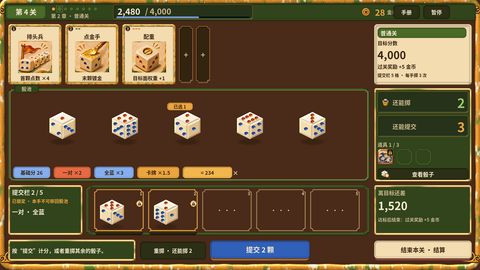
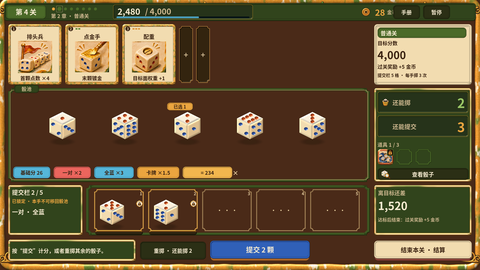
art(v1.1 W20 sancai): default dice pip colours (red EC655D, blue 55B6D9)
The palette's red and blue also colour the 3D dice pips (DiceTable reads
UiKit.Red and UiKit.Blue). Pip colour is the game's main functional cue,
so per CP3-1 every style keeps the default pair, as Swiss does
(coordinator decision, 2026-11-17). Rebuilt: theme.json, preview and
contact sheet change; the 49 sprites do not. Sancai tests 24/24, strict
audit AUDIT_OK. README records the decision.

Changed region(s): [[0.0, 0.5926, 0.2812, 0.6815], [0.25, 0.0593, 0.4062, 0.0889]]

diff --git a/tools/art_v11/sancai/build_sancai.py b/tools/art_v11/sancai/build_sancai.py
@@ -49,8 +49,10 @@ PALETTE = {
     "muted": "CDB78F",        # pale clay: secondary text on dark glaze
     "gold": "EBA53F",         # amber glaze: prices, coins, highlights
     "teal": "9BC766",         # light copper green: done, positive
-    "red": "E66A44",          # iron-red glaze, light enough for text on the felt
-    "blue": "84AEEE",         # thin cobalt glaze, light enough for text on the felt
+    # red and blue also colour the 3D dice pips (DiceTable reads UiKit.Red / UiKit.Blue). Pip colour is the game's main
+    # functional cue, so every style keeps the default pair (coordinator, 2026-11-17, CP3-1; THEME_SPEC section 2).
+    "red": "EC655D",
+    "blue": "55B6D9",
     "violet": "B58BC9",       # manganese aubergine glaze, thinned: enchantments
     "danger": "A0301E",       # deep iron red: errors, boss warnings
     "shadow": "140B05",

diff --git a/tools/art_v11/sancai/README.md b/tools/art_v11/sancai/README.md
@@ -62,7 +62,7 @@ WCAG 2 相对亮度（sRGB 线性化）。生成器 `palette_report()` 打印下
 | boss / danger | A93F1C / A0301E | 铁红；danger 更深 | textColor 5.25 / 6.10；danger 在 paper 上 5.33 |
 | gold / reward | EBA53F / F2B64E | 琥珀釉；reward 更亮 | ink/gold 7.05；gold 在 panel 上 5.06（保留金色数字） |
 | teal | 9BC766 | 浅铜绿（完成、正面） | panel 上 5.45 |
-| red / blue | E66A44 / 84AEEE | 铁红与薄钴蓝，亮度接近默认（EC655D / 55B6D9），桌面上的文字与 3D 骰点照样读得出；见“需要决定” | ink 在 red 上 4.59（代码会提亮一步，和默认红一样） |
+| red / blue | EC655D / 55B6D9（与默认相同） | 这两项同时决定 3D 骰点的颜色。骰点颜色是最重要的功能提示，协调者决定各风格都用默认这一对（2026-11-17，CP3-1；THEME_SPEC §2）。原提案为铁红 E66A44 / 薄钴蓝 84AEEE | 与默认相同 |
 | violet | B58BC9 | 锰紫釉（概念图“商店服务”） | — |
 | ghost | D2AC74 | 浅琥珀：空提交格、托盘内细线 | felt 上 6.05 |
 | onFelt | EBD3A4 | 桌面是深色，直接画在桌布上的序号、空格点、乘号用浅乳白 | felt 上 8.80（≥4.5） |
@@ -129,5 +129,5 @@ SANCAI_ZONE submit_info_text150 rect=32,740,360,202 max_rgb_delta=0 limit=0 PASS
 ## 需要决定
 
 1. **主按钮用钴蓝还是琥珀。** 现为钴蓝（对局画面上唯一的蓝色大块，概念 roll 页同色），稀有度因此用乳白 / 铜绿 / 琥珀。若改回默认的“主按钮 = 金色”，稀有可以改用钴蓝（概念 card 页“稀有”是钴蓝章），常见的乳白就要和琥珀拉开。
-2. **红 / 蓝骰的颜色。** 现为铁红 E66A44 / 薄钴蓝 84AEEE（会改变这套风格下 3D 骰点的颜色）。瑞士保留了默认的 EC655D / 55B6D9；若要各风格骰色一致，可以只改这两项。
+2. ~~**红 / 蓝骰的颜色。**~~ 已决定（协调者，2026-11-17）：用默认的 EC655D / 55B6D9，各风格骰色一致。
 3. **面板用深绿。** 概念图的面板多为乳白釉、深色字，但代码在 `panel` 上写浅色字，所以深色面板是必须的；深绿和深褐二选一，现选深绿。
